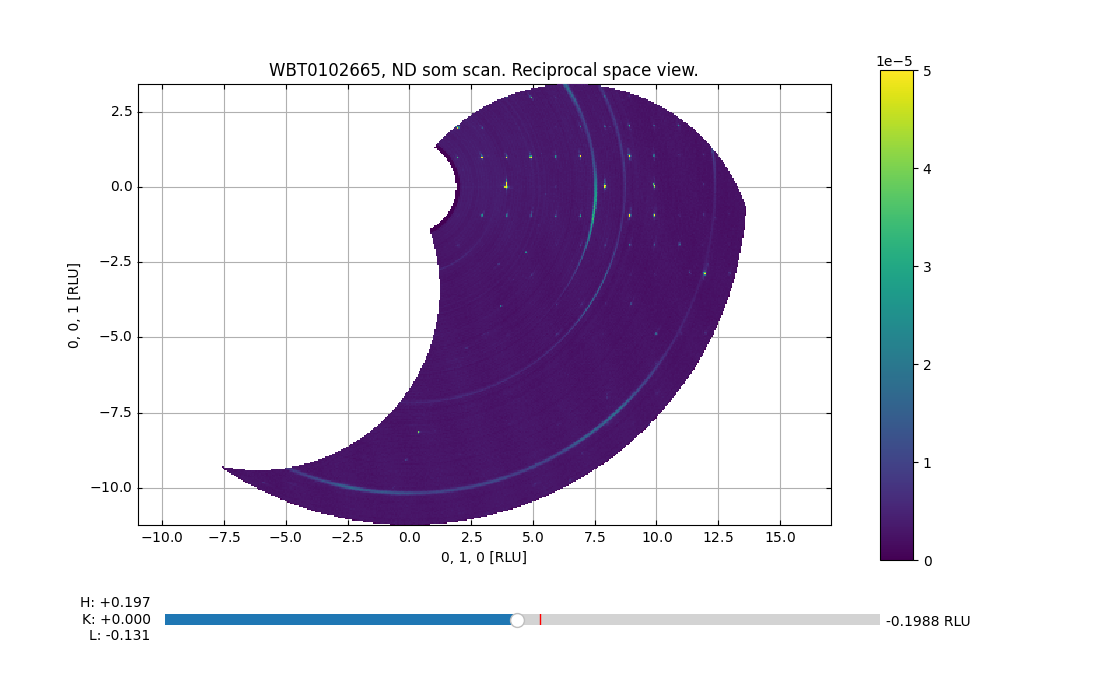
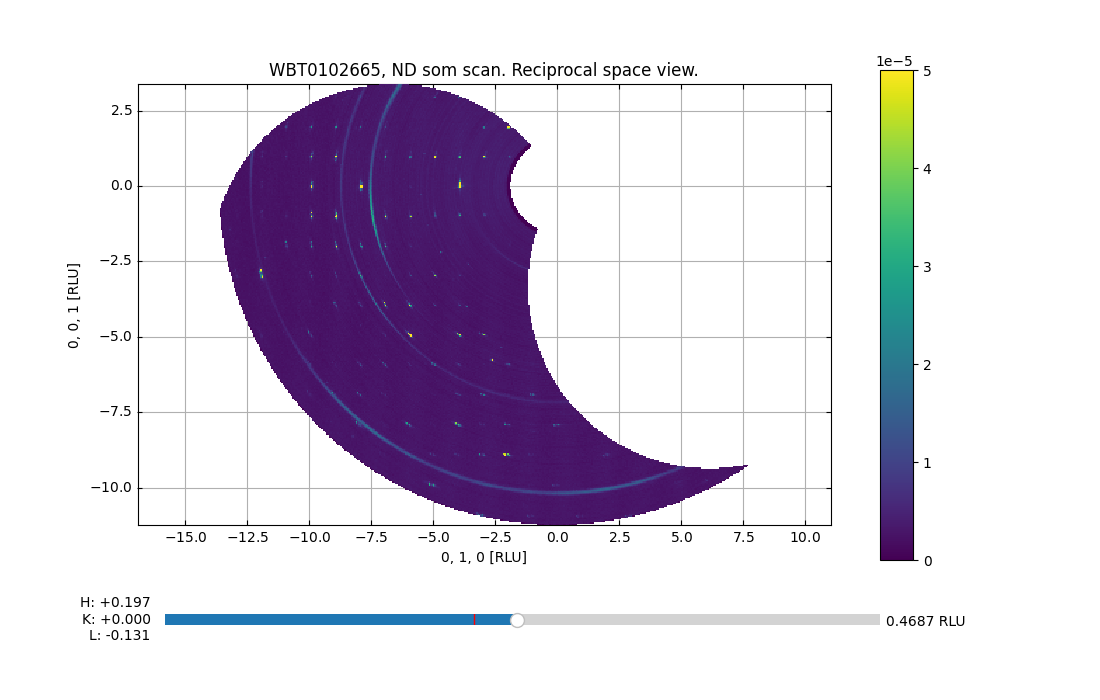
figured out how to convert UB matrix from Int3D to UB matrix found in DMCpy

Changed region(s): [[0.0927, 0.12, 0.7418, 0.78], [0.8036, 0.87, 0.8964, 0.9], [0.4945, 0.63, 0.5255, 0.66]]

diff --git a/wombat_alex_crystal_example/Reciprocal_Space_View_3Dalign_Alex_crystal_2p41_angstrom.py b/wombat_alex_crystal_example/Reciprocal_Space_View_3Dalign_Alex_crystal_2p41_angstrom.py
@@ -15,7 +15,7 @@ Dataset = PMT diffuse feasibility 2025-04-10
 """
 import sys
 # add location of Wombat DMCpy scripts
-sys.path.append('J:\wombat_instrument_work\eulerian_cradle\Wombat_DMCpy')
+sys.path.append('J:\wombat_instrument_work\DMCpy_for_wombat\Wombat_DMCpy')
 import os
 from wombatDMCpy import WombatDataFile, WombatDataSet, _tools
 import numpy as np
@@ -78,8 +78,22 @@ HKL2 = [0,9,-1]
 # this function uses two coordinates in Q space and align them to corrdinates in HKL space
 ds.alignToRefs(q1 = q1, q2 = q2, HKL1 = HKL1, HKL2 = HKL2)
 
-print('\nUB matrix')
+print('\nUB matrix from wombatDMCpy')
 print(ds[0].sample.UB)
+print(type(ds[0].sample.UB))
+
+print('using UB matrix from Int3D (sign corrected)')
+int3D_UB_matrix = [[-0.01283464021981, -0.05588710308075, -0.00410178117454],
+                   [-0.04498909413815,  0.00337106804363, -0.06822432577610],
+                   [0.12217384576797,  -0.00462971441448, -0.00016237422824]]
+
+sign_matrix = [[+1, -1, +1],
+               [-1, +1, -1],
+               [+1, -1, +1]]
+
+ds[0].sample.UB = 2*np.pi*np.multiply(np.array(sign_matrix), np.array(int3D_UB_matrix))
+print(ds[0].sample.UB)
+
 
 """~~~~~~~~~~~~~~~~~~ Reciprocal space viewer in r.l.u. ~~~~~~~~~~~~~~~~~~~~~"""
 # Note: for not-orthogonal unit cells, you will have to "add up" the x and y
